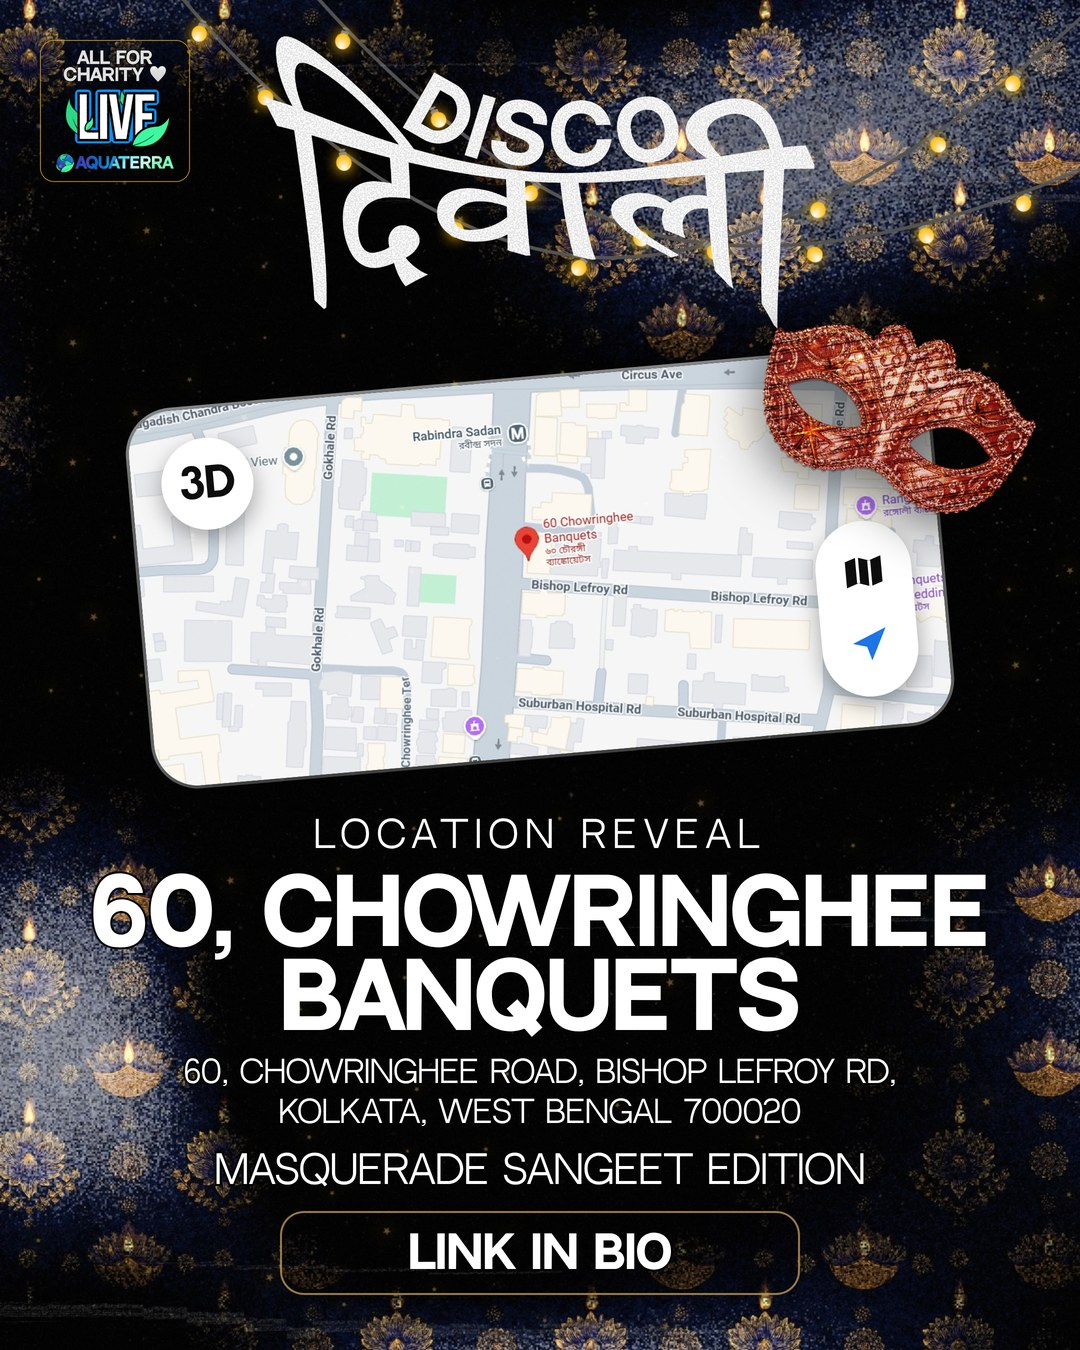
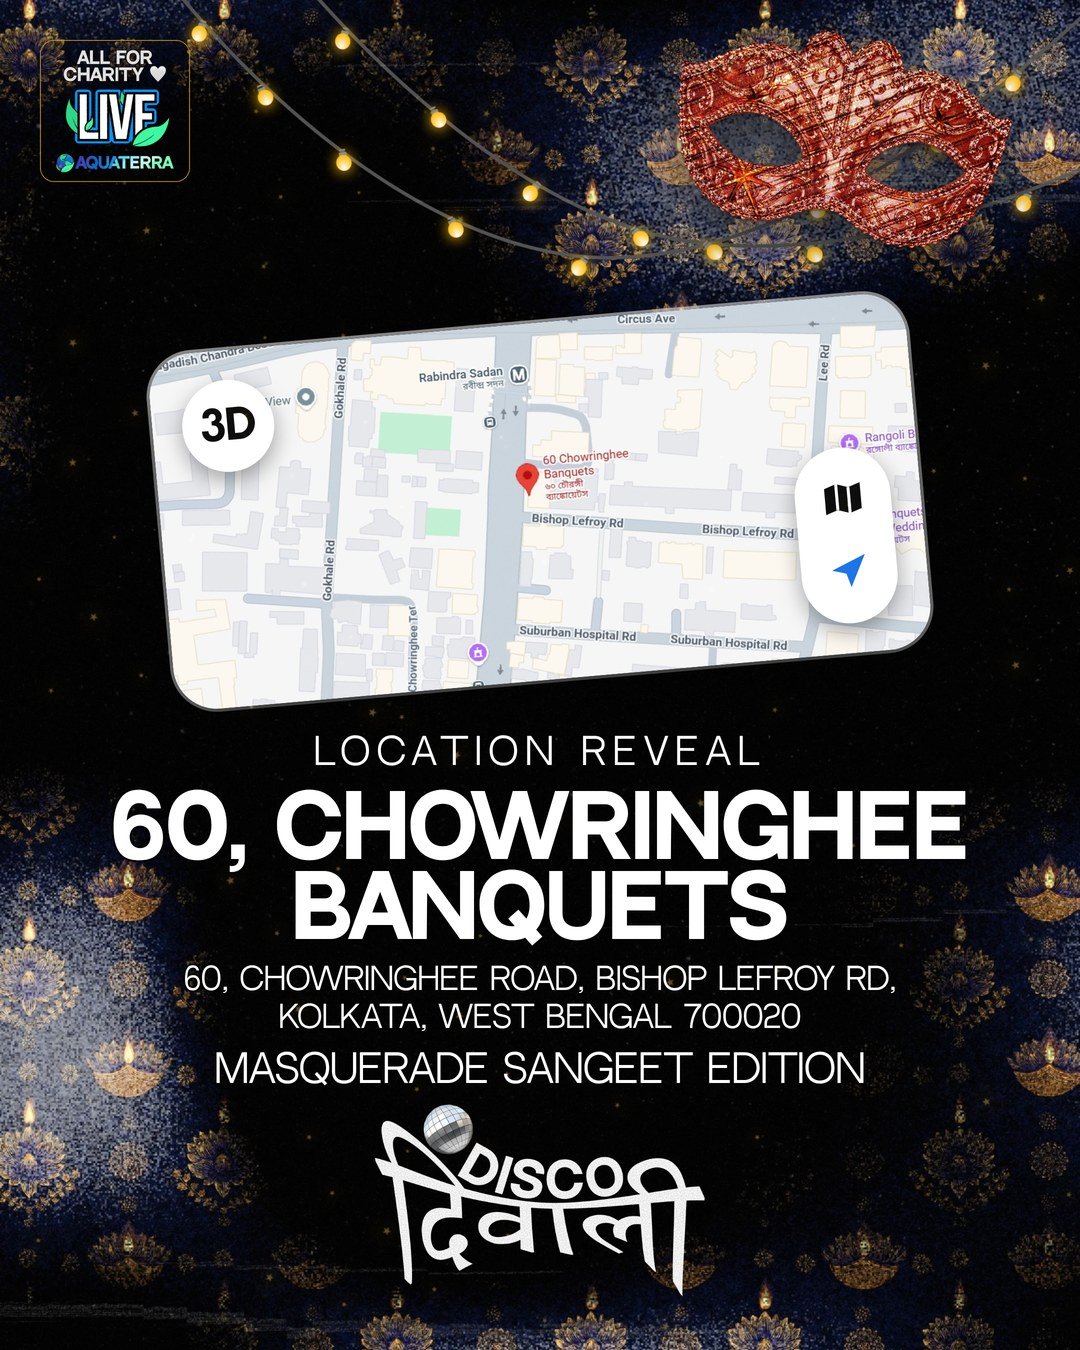
Disco Diwali location reveal: remove the link pill, lockup as a footer mark, mask top right
Claude-Session: https://claude.ai/code/session_01SvqxkoTEENgXPyjFifmnqB

diff --git a/scratchpad/dd_location_reveal.py b/scratchpad/dd_location_reveal.py
@@ -2,13 +2,12 @@
 with round white map buttons and a Memoji pin bubble.
 
 Composition, back to front: black ground, the approved navy diya plate with string lights, a map card (the user's own map screenshot, rounded, tilted
--5 degrees, hard shadow and hairline edge) carrying a "3D" button and a compass pill like the inspo, the copper mask overlapping the card's top-right
-corner, the title lockup and LIVE badge above, then LOCATION REVEAL, the venue, its address, the edition line and a LINK IN BIO pill.
+-5 degrees, hard shadow and hairline edge) carrying a "3D" button and a compass pill like the inspo, the LIVE badge top left and copper mask top right,
+then LOCATION REVEAL, the venue, its address and the edition line, and the DISCO DIWALI lockup (with its ball) as a small footer mark. No pill (user).
 
 Facts (all supplied by the user, 2026-10-19): venue "60, Chowringhee Banquets"; address "60, Chowringhee Road, Bishop Lefroy Rd, Kolkata, West Bengal 700020".
 NO date or time (user choice). No price or lineup. The map is the user's real screenshot, never redrawn, so no street label is mine.
-Adaptations: the inspo's Memoji pin avatar became the copper mask lying on the card (the red venue pin stays visible in the screenshot, so the card still
-points at the place); the map buttons are drawn here with no Apple or Google marks; type is NeutralFace, white with a thin black border.
+Adaptations: the inspo's Memoji pin avatar is dropped (the red venue pin in the screenshot carries the pointing); the map buttons are drawn here with no Apple or Google marks; type is NeutralFace, white with a thin black border.
 Run: PYTHONIOENCODING=utf-8 python scratchpad/dd_location_reveal.py"""
 import asyncio, importlib.util, math, os, sys
 ROOT = os.path.dirname(os.path.dirname(os.path.abspath(__file__)))
@@ -59,43 +58,46 @@ def map_card(cx, cy, MAP_W):
 
 
 def poster(H):
+    """Top: LIVE badge left, copper mask right. Middle: the map card, then the reveal copy. Footer: the DISCO DIWALI lockup (with its ball) as a small
+    mark, like the reference chat slide. No pill (user, 2026-10-19)."""
     story = H > 1350
-    t = .36 if story else .32                                 # title lockup: visible 1717t x 913t
-    ty = 230 if story else 36                                 # story keeps the top 200px clear of the profile bar
-    cy = 880 if story else 567                                # card centre
-    card_w = 880 if story else 800
-    vw, vh = round(1717 * t), round(913 * t); vx = (W - vw) // 2
-    vsize = 90 if story else 88
+    card_w = 880 if story else 760
+    card_top = 520 if story else 290                          # top of the card's tilted bounding box
+    card_h = round(card_w * 508 / 1080)
+    cy = card_top + rot_box(0, 0, card_w, card_h, TILT)[3] // 2 + (0 if False else 0)
+    cy = card_top + (rot_box(0, 0, card_w, card_h, TILT)[3] + 1) // 2
+    vsize = 90 if story else 84
     parts, els = [ground(H)], []
-    # LIVE badge
+    # LIVE badge top left (story keeps the top 200px clear of the profile bar)
     bx, by, bw = 40, (210 if story else 40), 150
     parts.append(f'<img data-tag="badge" src="{dd.uri("live_badge.png")}" style="position:absolute;left:{bx}px;top:{by}px;width:{bw}px;z-index:20">'); els.append(("badge", bx, by, bw, round(bw * 1005 / 1061)))
-    # title lockup (ball-free), visible box 231..849 x ty..ty+329
-    parts.append(f'<img data-tag="title" src="{dd.uri("title_lockup_noball.png")}" style="position:absolute;left:{round(vx - 265 * t)}px;top:{round(ty - 401 * t)}px;width:{round(2000 * t)}px;z-index:9">'); els.append(("title", vx, ty, vw, vh))
-    # map card + the copper mask on its top-right corner
+    # copper mask top right: visible box = asset 157..1562 x 211..1134 of 1680x1278 (measured)
+    mw = 400; k = mw / 1680
+    mx = 640; my = (170 if story else -20)
+    parts.append(f'<img data-tag="mask" src="{dd.uri("mask_copper.png")}" style="position:absolute;left:{mx}px;top:{my}px;width:{mw}px;z-index:12;filter:drop-shadow(0 12px 26px rgba(0,0,0,.65))">')
+    els.append(("mask", round(mx + 157 * k), round(my + 211 * k), round(1405 * k), round(923 * k)))
+    # map card
     card, box = map_card(540, cy, card_w); parts.append(card); els.append(("card",) + box)
-    mw = 330
-    mx, my = 730, box[1] - 62
-    parts.append(f'<img data-tag="mask" src="{dd.uri("mask_copper.png")}" style="position:absolute;left:{mx}px;top:{my}px;width:{mw}px;z-index:12;transform:rotate(10deg);'
-                 f'filter:drop-shadow(0 12px 26px rgba(0,0,0,.65))">'); els.append(("mask", mx + 30, my + 40, 276, 196))
     # reveal copy
-    y = box[1] + box[3] + (34 if story else 30)
+    y = box[1] + box[3] + (34 if story else 24)
     def line(tag, txt, top, size, weight, h, extra=""):
         parts.append(f'<div data-tag="{tag}" style="position:absolute;left:0;width:{W}px;top:{top}px;text-align:center;font-family:var(--d);font-weight:{weight};font-size:{size}px;line-height:1;'
                      f'text-transform:uppercase;white-space:nowrap;{STROKE}{extra}z-index:20">{txt}</div>'); els.append((tag, 70, top, 940, h))
     line("label", "Location reveal", y, 36, 400, 38, "letter-spacing:7px;")
     y += 52
     line("venue1", VENUE[0], y, vsize, 700, vsize); y += vsize - 4
-    line("venue2", VENUE[1], y, vsize, 700, vsize); y += vsize + 16
-    line("addr1", ADDR[0], y, 30, 400, 32); y += 40
-    line("addr2", ADDR[1], y, 30, 400, 32); y += 54
+    line("venue2", VENUE[1], y, vsize, 700, vsize); y += vsize + 14
+    line("addr1", ADDR[0], y, 30, 400, 32); y += 38
+    line("addr2", ADDR[1], y, 30, 400, 32); y += 48
     line("edition", "Masquerade Sangeet Edition", y, 38, 400, 40)
-    py = y + (66 if story else 58)
-    pill_w, pill_h = 520, (88 if story else 84)
-    parts.append(f'<div data-tag="pill" style="position:absolute;left:{(W - pill_w) // 2}px;top:{py}px;width:{pill_w}px;height:{pill_h}px;border:2px solid rgba(214,170,90,.7);border-radius:24px;'
-                 f'background:rgba(0,0,0,.28);display:flex;align-items:center;justify-content:center;font-family:var(--d);font-weight:700;font-size:44px;text-transform:uppercase;{STROKE}z-index:20">Link in bio</div>')
-    els.append(("pill", (W - pill_w) // 2, py, pill_w, pill_h))
-    return "".join(parts), els, py + pill_h
+    # footer mark: the lockup with its ball, centred, visible box 265..1982 x 320..1311 of the 2000x1382 asset
+    vw = 400 if story else 330
+    t = vw / 1717; vh = round(991 * t); vx = (W - vw) // 2
+    vy = (1440 if story else H - 64 - vh)
+    vy = max(vy, y + 40 + 14)
+    parts.append(f'<img data-tag="title" src="{dd.uri("title_lockup.png")}" style="position:absolute;left:{round(vx - 265 * t)}px;top:{round(vy - 320 * t)}px;width:{round(2000 * t)}px;z-index:9">')
+    els.append(("title", vx, vy, vw, vh))
+    return "".join(parts), els, vy + vh
 
 
 async def main():
@@ -105,6 +107,6 @@ async def main():
             inner, els, bottom = poster(H)
             print(f"[{name}] last element ends at y={bottom} of {H}")
             await B.render(B.page(W, H, "#000", inner, grain=False), os.path.join(OUT, f"{name}.png"), W, H, elements=els, containers=(), bleed_tags=("plate",), crop_tags=("plate", "card"),
-                           page_bg="#000", collision_ignore=[("mask", "card"), ("card", "badge"), ("title", "badge")])
+                           page_bg="#000", collision_ignore=[("mask", "card"), ("card", "badge")])
     print("location reveal done ->", OUT)
 asyncio.run(main())

diff --git a/brain/DISCO_DIWALI.md b/brain/DISCO_DIWALI.md
@@ -85,7 +85,7 @@ Four 4:5 slides from a second user inspo (dimmed full-bleed night photo, gold-bo
 Four 1080x1350 slides on the approved diya ground (user, 2026-10-14, "i want this blue effect": black, navy and gold lotus-diya corners fading to black, string lights; not the beam recipe), from a user inspo (a "Choose everything related to..." verification card over a party photo): 1 the COVER (title lockup, copper mask, LIVE badge, a full captcha-card hook: blue header VERIFY YOU'RE A DISCO DIWALI HUMAN, a checkbox with a spinner, a SWIPE button), 2 the card with nine real event photos, 3 the same card with all nine ticked and the button reading VERIFIED, 4 ALL FOR CHARITY with the edition line and the LINK IN BIO pill (no date or time anywhere in the carousel, user 2026-10-14). Adaptations: the card is a design device (no reCAPTCHA marks, real photos, our button); the inspo's "best parties in the city" became "Related to Disco Diwali" because the claim cannot be backed; the header keeps the inspo's blue as the recognisable mechanism. No price, venue or lineup. Photo consent caveat applies (nine event photos, several show apparent minors).
 
 ### Location reveal poster (2026-10-19) — `scratchpad/dd_location_reveal.py`, JPEGs in `sample_outputs/disco_diwali_location/`
-Feed 1080x1350 and story 1080x1920 from a user inspo (a tilted rounded map card lying on the ground with round map buttons and a pin avatar). The map is the USER'S OWN screenshot (`engine/assets/disco_diwali/map_60_chowringhee.jpg`), never redrawn, so no street label is ours; the "3D" and compass buttons are drawn here with no Apple or Google marks. Facts printed, all supplied by the user: venue "60, Chowringhee Banquets" and the address "60, Chowringhee Road, Bishop Lefroy Rd, Kolkata, West Bengal 700020". No date or time (user choice), no price, no lineup. The inspo's Memoji pin avatar became the copper mask on the card's top-right corner (the red venue pin in the screenshot stays visible). Lessons: size the feed stack from the room left (the first build ended at y=1432 on a 1350 canvas, caught by the gate); a headline at the story's full size sat 50px from the edge, so 90px. The "Turf XL, New Alipore" in the TerraThon scripts is where the ticket STALL is, not the event venue.
+Feed 1080x1350 and story 1080x1920 from a user inspo (a tilted rounded map card lying on the ground with round map buttons and a pin avatar). The map is the USER'S OWN screenshot (`engine/assets/disco_diwali/map_60_chowringhee.jpg`), never redrawn, so no street label is ours; the "3D" and compass buttons are drawn here with no Apple or Google marks. Facts printed, all supplied by the user: venue "60, Chowringhee Banquets" and the address "60, Chowringhee Road, Bishop Lefroy Rd, Kolkata, West Bengal 700020". No date or time (user choice), no price, no lineup. Layout (user, 2026-10-19: no pill, lockup in the footer like the reference chat slide): LIVE badge top left, copper mask top right, the map card, the reveal copy, then the DISCO DIWALI lockup WITH its ball as a small footer mark. No LINK IN BIO pill. The inspo's Memoji pin avatar is not used; the red venue pin in the screenshot carries the pointing. Lessons: size the feed stack from the room left (the first build ended at y=1432 on a 1350 canvas, caught by the gate); a headline at the story's full size sat 50px from the edge, so 90px. The "Turf XL, New Alipore" in the TerraThon scripts is where the ticket STALL is, not the event venue.
 
 ## 6. Conflicts with CLAUDE.md and how they were resolved (precedence ladder, sec 2)
 - Ground, palette and fonts differ from the AQ house style. Resolved as a format exception, like TerraThon. The format wins inside `discodiwali.py` only.
